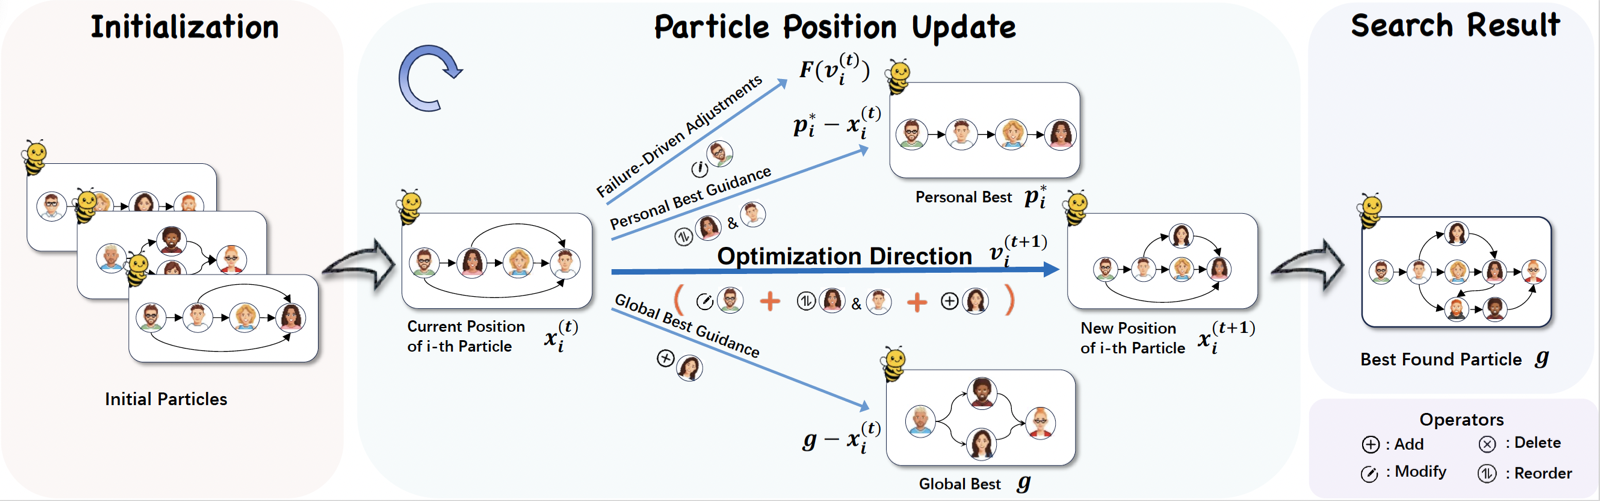
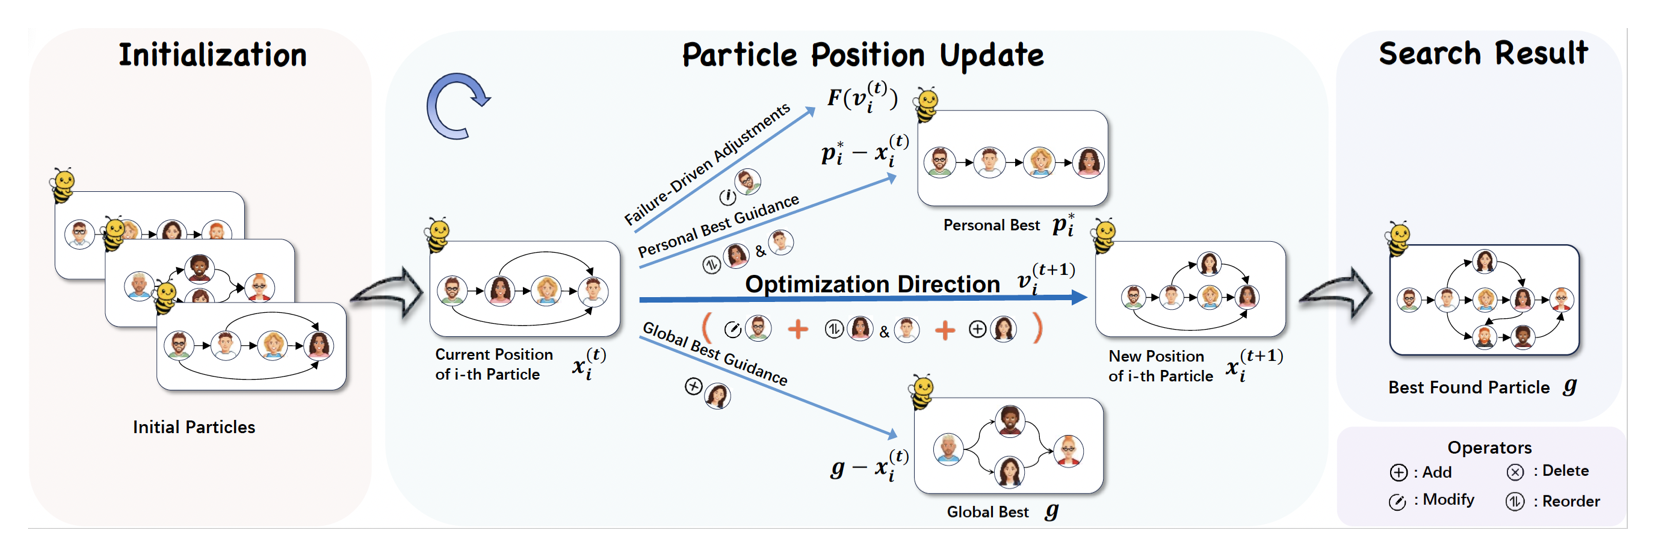
Float the full figure on hover and open it in a lightbox on click
Hovering a publication teaser now floats the whole figure in a white
card over the entry, the way yaozhang.ai does; clicking opens it centred
in a lightbox (assets/js/pub-figure.js) instead of medium-zoom, which
was squeezing the wide figure into the teaser's 8:5 box. The full figure
is flattened onto white with a margin so both views read as a card.

Also soften the "Email me" call to action from a solid red pill to a
light outlined one.

diff --git a/assets/css/custom.css b/assets/css/custom.css
@@ -61,7 +61,8 @@
 
 /* The teaser: a hand-cropped detail of the figure filling an 8:5 plate.
    Crop teasers to roughly this shape before adding them (see
-   assets/img/publication_preview/); clicking one zooms to the full figure. */
+   assets/img/publication_preview/). On desktop, hovering the plate floats
+   the full figure in a white card over the entry; clicking zooms it. */
 ol.bibliography img.preview,
 ol.bibliography video.preview {
   display: block;
@@ -75,6 +76,95 @@ ol.bibliography video.preview {
 }
 ol.bibliography > li .abbr {
   margin-bottom: 0;
+}
+ol.bibliography .thumbnail-hover-wrapper {
+  position: relative;
+  display: block;
+}
+ol.bibliography .thumbnail-hover-overlay {
+  display: none;
+  position: absolute;
+  top: -8px;
+  left: -8px;
+  z-index: 300;
+  width: min(880px, calc(100vw - 3rem));
+  padding: 8px;
+  background: #fff;
+  border: 1px solid var(--global-divider-color);
+  border-radius: 10px;
+  box-shadow: 0 18px 50px rgba(0, 0, 0, 0.22);
+  pointer-events: none;
+}
+ol.bibliography .thumbnail-hover-overlay img {
+  display: block;
+  width: 100%;
+  height: auto;
+  border-radius: 6px;
+}
+@media (min-width: 992px) and (hover: hover) {
+  ol.bibliography .thumbnail-hover-wrapper:hover .thumbnail-hover-overlay {
+    display: block;
+    animation: pub-overlay-in 0.18s ease-out;
+  }
+  /* Lift the hovered card above its siblings so the overlay is never clipped */
+  .publications ol.bibliography > li:hover {
+    position: relative;
+    z-index: 20;
+  }
+}
+@keyframes pub-overlay-in {
+  from {
+    opacity: 0;
+    transform: translateY(4px);
+  }
+  to {
+    opacity: 1;
+    transform: none;
+  }
+}
+/* Lightbox opened by clicking a teaser (assets/js/pub-figure.js): the full
+   figure centred in a white card over the blurred page */
+.pub-lightbox {
+  position: fixed;
+  inset: 0;
+  z-index: 2000;
+  display: flex;
+  align-items: center;
+  justify-content: center;
+  padding: 2rem;
+  background: rgba(249, 247, 244, 0.86);
+  backdrop-filter: blur(6px);
+  -webkit-backdrop-filter: blur(6px);
+  cursor: zoom-out;
+  opacity: 0;
+  transition: opacity 0.2s ease;
+}
+.pub-lightbox.is-open {
+  opacity: 1;
+}
+.pub-lightbox__card {
+  margin: 0;
+  padding: 10px;
+  background: #fff;
+  border: 1px solid var(--global-divider-color);
+  border-radius: 12px;
+  box-shadow: 0 30px 80px rgba(0, 0, 0, 0.28);
+  transform: scale(0.96);
+  transition: transform 0.22s cubic-bezier(0.22, 0.61, 0.36, 1);
+}
+.pub-lightbox.is-open .pub-lightbox__card {
+  transform: none;
+}
+.pub-lightbox__card img {
+  display: block;
+  max-width: min(1200px, 94vw);
+  max-height: 86vh;
+  width: auto;
+  height: auto;
+  border-radius: 8px;
+}
+html.pub-lightbox-open {
+  overflow: hidden;
 }
 
 /* Phones: the row stacks, so cap the plate rather than letting it fill */
@@ -532,21 +622,26 @@ body {
   display: inline-flex;
   align-items: center;
   gap: 0.55rem;
-  padding: 0.55rem 1.25rem;
+  padding: 0.55rem 1.2rem;
   border-radius: 999px;
-  background: linear-gradient(135deg, #c0392b, #a93226);
-  color: #fff !important;
+  border: 1px solid rgba(192, 57, 43, 0.35);
+  background: rgba(255, 255, 255, 0.7);
+  color: var(--site-accent) !important;
   font-size: 0.92rem;
   font-weight: 600;
   text-decoration: none !important;
-  box-shadow: 0 2px 10px rgba(192, 57, 43, 0.28);
+  box-shadow: 0 1px 3px rgba(192, 57, 43, 0.08);
   transition:
+    background 0.18s ease,
+    border-color 0.18s ease,
     transform 0.18s ease,
     box-shadow 0.18s ease;
 }
 .chat-cta:hover {
+  background: rgba(192, 57, 43, 0.08);
+  border-color: rgba(192, 57, 43, 0.55);
   transform: translateY(-1px);
-  box-shadow: 0 6px 18px rgba(192, 57, 43, 0.34);
+  box-shadow: 0 4px 12px rgba(192, 57, 43, 0.14);
 }
 .chat-cta__arrow {
   transition: transform 0.18s ease;

diff --git a/assets/js/pub-figure.js b/assets/js/pub-figure.js
@@ -1,0 +1,58 @@
+// Publication figure lightbox.
+// Clicking a publication teaser (.thumbnail-hover-wrapper img.preview, which
+// carries the full figure in data-zoom-src) opens the figure centred in a
+// white card over a blurred page. Click anywhere or press Escape to close.
+(function () {
+  var box = null;
+
+  function close() {
+    if (!box) return;
+    var el = box;
+    box = null;
+    el.classList.remove("is-open");
+    document.documentElement.classList.remove("pub-lightbox-open");
+    setTimeout(function () {
+      el.remove();
+    }, 220);
+  }
+
+  function open(src, alt) {
+    close();
+    box = document.createElement("div");
+    box.className = "pub-lightbox";
+    box.setAttribute("role", "dialog");
+    box.setAttribute("aria-label", alt || "Figure");
+    var card = document.createElement("figure");
+    card.className = "pub-lightbox__card";
+    var img = document.createElement("img");
+    img.src = src;
+    img.alt = alt || "";
+    card.appendChild(img);
+    box.appendChild(card);
+    document.body.appendChild(box);
+    document.documentElement.classList.add("pub-lightbox-open");
+    requestAnimationFrame(function () {
+      requestAnimationFrame(function () {
+        if (box) box.classList.add("is-open");
+      });
+    });
+  }
+
+  document.addEventListener("click", function (e) {
+    if (box && box.contains(e.target)) {
+      close();
+      return;
+    }
+    var wrap = e.target.closest && e.target.closest(".thumbnail-hover-wrapper");
+    if (!wrap) return;
+    var teaser = wrap.querySelector("img.preview");
+    var src = teaser && (teaser.getAttribute("data-zoom-src") || teaser.getAttribute("src"));
+    if (!src) return;
+    e.preventDefault();
+    open(src, teaser.getAttribute("alt"));
+  });
+
+  document.addEventListener("keydown", function (e) {
+    if (e.key === "Escape") close();
+  });
+})();
